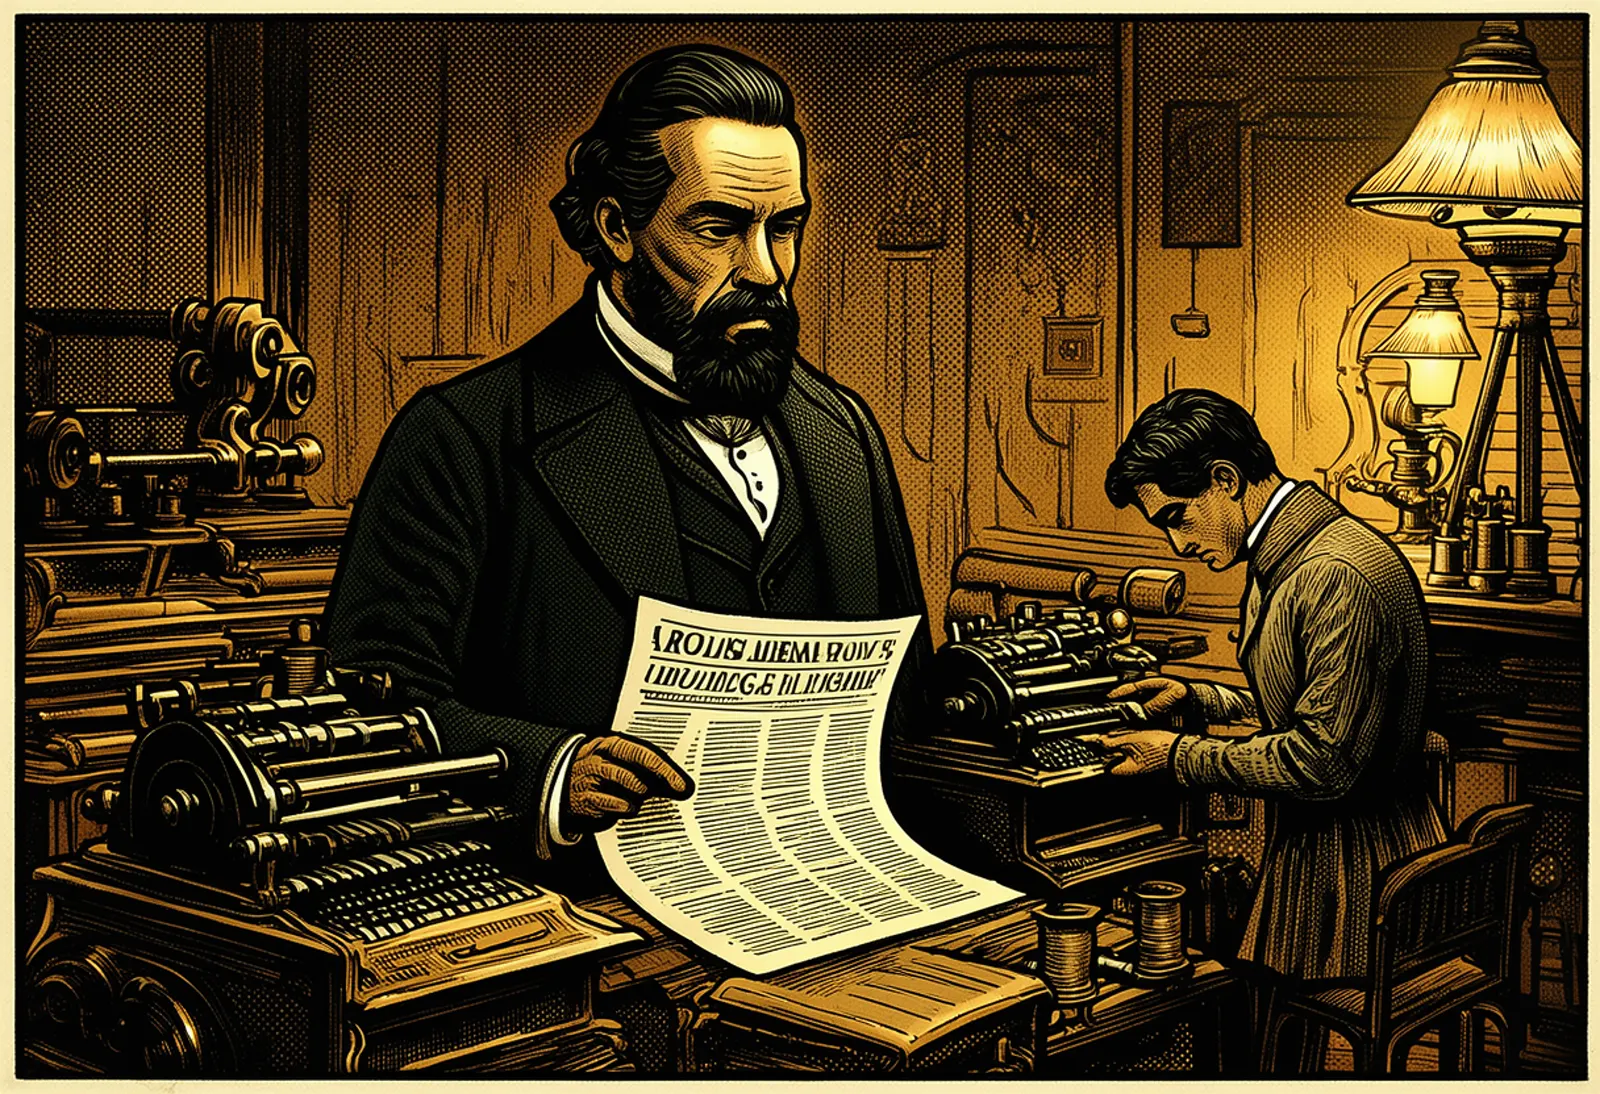
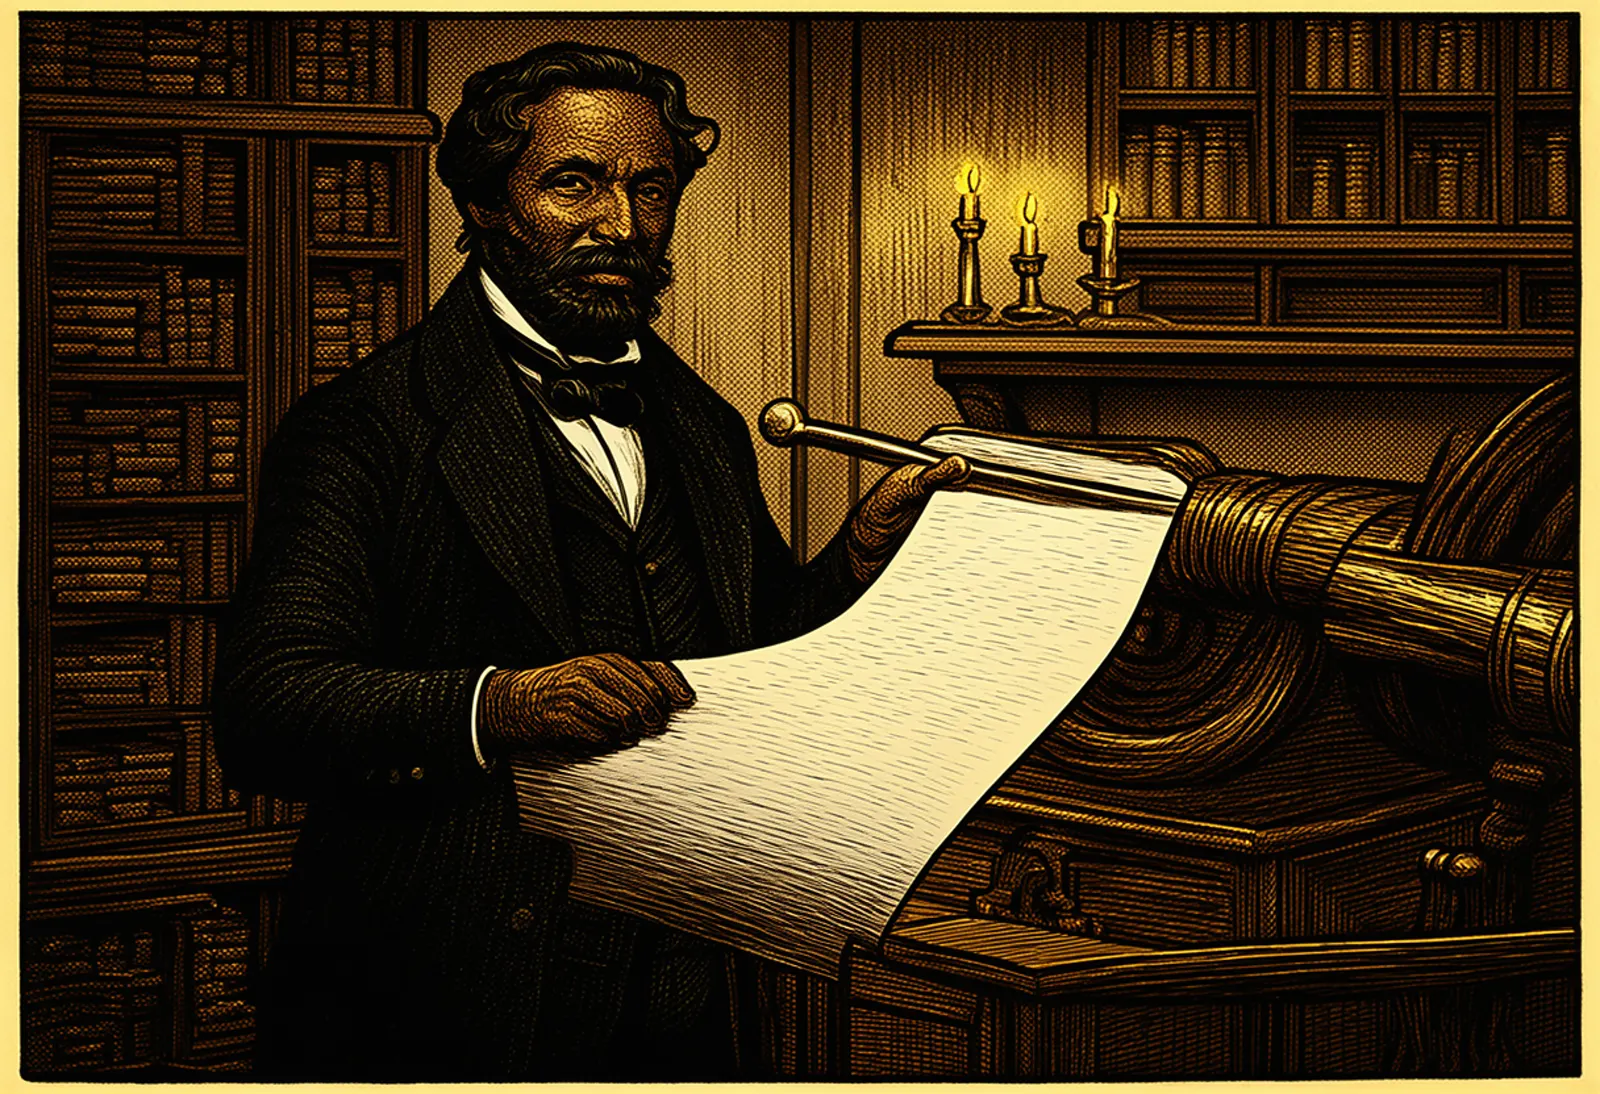
feat: 4 new Sections live: confucius, twain, ibnsina, dostoevsky
Claude-Session: https://claude.ai/code/session_01CPt1uVasGb5EZh8GHwD75b

diff --git a/scripts/art/panels.py b/scripts/art/panels.py
@@ -10,7 +10,7 @@ STYLE = ("graphic novel comic book panel, bold black ink linework, cross-hatchin
          "limited palette of deep sepia brown, warm cream paper and burnished gold highlights, dramatic cinematic lighting, "
          "strong composition, highly detailed historical illustration")
 NEG = ("text, speech bubble, letters, caption, watermark, signature, logo, modern clothing, modern objects, "
-       "photorealistic photo, 3D render, blurry, lowres, deformed hands, extra fingers, extra limbs, cropped face, gore, blood, United States Capitol building, Washington DC, red cross emblem, duplicate person")
+       "photorealistic photo, 3D render, blurry, lowres, deformed hands, extra fingers, extra limbs, cropped face, gore, blood, United States Capitol building, Washington DC, red cross emblem, duplicate person, typewriter, skyscrapers, electric light bulb, lampshade, electric lamp, kerosene lamp, glass lamp chimney")
 
 MUSASHI = "a lean Japanese swordsman of the early 1600s with long unkempt black hair tied back, a rough dark kimono and hakama, a long and a short sword at his hip, calm fierce eyes"
 AURELIUS = "a Roman man with short curly hair and a full curly beard, thoughtful calm face"
